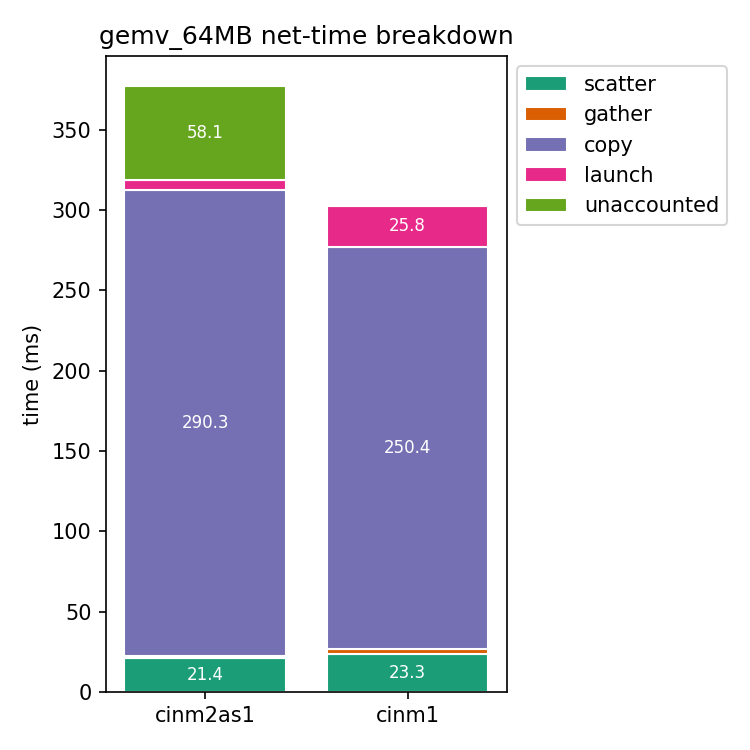
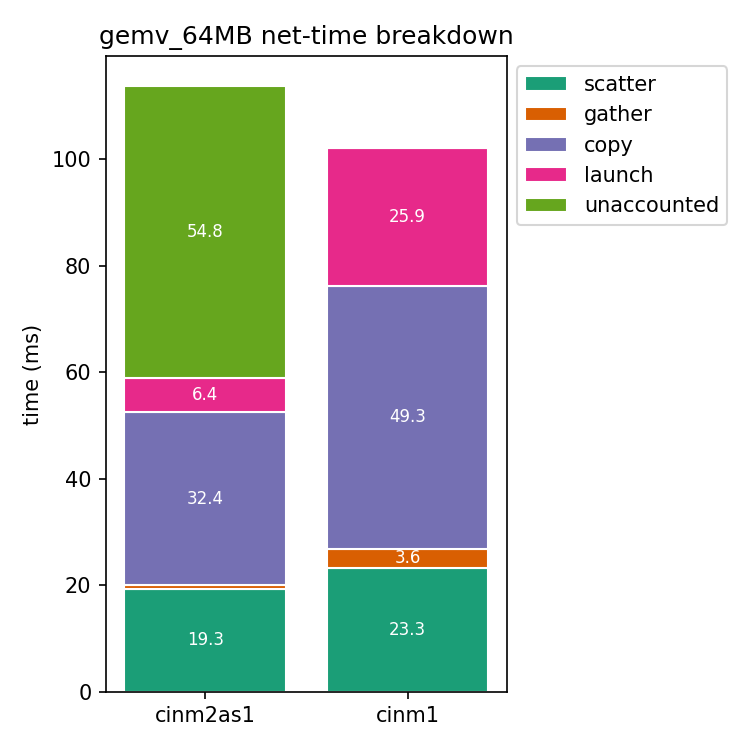
Optimize memref copy implementation

diff --git a/experiments/gemv_microbenchmark/dodo.py b/experiments/gemv_microbenchmark/dodo.py
@@ -1,0 +1,187 @@
+"""doit tasks for the gemv_64MB CINM 1.0 vs CINM 2.0 comparison: one compile
+task per config, one run task per config (each depending on its own
+compile), then a plot task depending on both runs.
+
+Config objects hold a `lower` Callable (the cinm-opt lowering pipeline),
+which can never be JSON-encoded, so they can't be passed between tasks via
+doit's getargs. Instead CONFIGS is just a module-level Python list that every
+task closure captures directly (no serialization needed -- it's all one
+process), and stages are connected by marker files on disk instead, matching
+cinm1comparison/dodo.py: `doit` then only reruns what's actually stale, e.g.
+rerunning after a plot tweak doesn't recompile or re-benchmark on hardware.
+
+Usage:
+  doit list         # show all tasks
+  doit              # compile + run + plot (default task)
+  doit compile      # just compile both configs
+  doit forget run   # force both hardware runs to redo next time
+"""
+
+from __future__ import annotations
+
+import pathlib
+import sys
+
+HERE = pathlib.Path(__file__).resolve().parent
+EXPERIMENTS_DIR = HERE.parent
+sys.path.insert(0, str(EXPERIMENTS_DIR))
+
+from doit.reporter import ProgressBarReporter  # noqa: E402
+from cinm_experiments import compile_run, cinm1, cinmopt, measurements  # noqa: E402
+
+DOIT_CONFIG = {"default_tasks": ["plot"], "reporter": ProgressBarReporter}
+
+COMPILE_ROOT = HERE / "data"
+RUN_ROOT = HERE / "run"
+ITERS = 10
+
+cinm2parms = {
+    "dpus": 256,
+    "tasklets": 4,
+    "wramRow": 1,
+    "wramCol": 1024,
+    "dpuCols": 1,
+    "mramRow": 4,
+    "mramCol": 1024,
+}
+
+CONFIGS = [
+    compile_run.Config(
+        system="cinm2as1",
+        fn_name="gemv_64MB",
+        label="foo",
+        params=cinm2parms,
+        fn_module="/home/clement.fournier/Work/cinm-mlir/experiments/cinm1comparison/data/prim_gemv/_split/gemv_64MB.mlir",
+        prim="gemv",
+        lower=cinmopt.eval_solution_lowerer(params=cinm2parms),
+    ),
+    compile_run.Config(
+        system="cinm1",
+        fn_name="gemv_64MB",
+        label="foo",
+        params={"dpus": 256, "tasklets": 4},
+        fn_module="/home/clement.fournier/Work/cinm-mlir/experiments/cinm1comparison/data/prim_gemv/_split/gemv_64MB.mlir",
+        prim="gemv",
+        lower=cinm1.lowerer(dpus=256, tasklets=4),
+    ),
+]
+
+
+def _config_dir(root: pathlib.Path, config: compile_run.Config) -> pathlib.Path:
+    return root / config.system / config.fn_name / config.label
+
+
+def _output_dir(config: compile_run.Config) -> pathlib.Path:
+    return _config_dir(RUN_ROOT, config) / "output"
+
+
+def _compile_one(config: compile_run.Config, marker: pathlib.Path) -> bool:
+    """Never raises: a config that fails to compile is recorded (printed,
+    marker left untouched) but must not stop doit from at least attempting
+    the sibling config -- a raised exception would abort the whole doit run,
+    not just this task."""
+    compiled = compile_run.compile_config(config, compile_root=COMPILE_ROOT)
+    if not compiled.ok:
+        print(f"  FAIL compile: {config.system}: {compiled.error}")
+        return False
+    marker.parent.mkdir(parents=True, exist_ok=True)
+    marker.touch()
+    return True
+
+
+def _run_one(config: compile_run.Config, marker: pathlib.Path) -> bool:
+    """Never raises, mirrors _compile_one. A hardware run failure is printed
+    but the marker is still touched, so a flaky run isn't silently retried
+    on every `doit` invocation -- rerun it explicitly with `doit forget
+    run:<system> && doit run:<system>`."""
+    compiled = compile_run.discover_compiled([config], compile_root=COMPILE_ROOT)[0]
+    result = compile_run.run_config(compiled, run_root=RUN_ROOT, iters=ITERS)
+    if not result.ok and compile_run.is_dpu_allocation_error(result.error):
+        result = compile_run.run_config(compiled, run_root=RUN_ROOT, iters=ITERS)
+    if not result.ok:
+        print(f"  FAIL run: {config.system}: {result.error[:200]}")
+    marker.parent.mkdir(parents=True, exist_ok=True)
+    marker.touch()
+    return True
+
+
+def task_compile():
+    """Compile each config to a upmem binary."""
+    for config in CONFIGS:
+        marker = _config_dir(COMPILE_ROOT, config) / "compile.done"
+        yield {
+            "name": config.system,
+            "file_dep": [config.fn_module],
+            "targets": [str(marker)],
+            "actions": [(_compile_one, [config, marker])],
+        }
+
+
+def task_bench():
+    """Benchmark each compiled config on hardware. doit runs same-priority
+    tasks in the order they're yielded, so with CONFIGS' fixed order this
+    stays sequential across configs -- concurrent hardware runs would
+    contend for host/DPU resources and skew wall-clock timing."""
+    for config in CONFIGS:
+        compile_marker = _config_dir(COMPILE_ROOT, config) / "compile.done"
+        run_marker = _config_dir(RUN_ROOT, config) / "run.done"
+        yield {
+            "name": config.system,
+            "file_dep": [str(compile_marker)],
+            "targets": [str(run_marker)],
+            "actions": [(_run_one, [config, run_marker])],
+        }
+
+
+def task_plot():
+    """Print + plot the net-time breakdown (scatter/gather/copy/launch/
+    unaccounted) for both systems."""
+
+    def action():
+        breakdowns = {}
+        for config in CONFIGS:
+            output_dir = _output_dir(config)
+            net_ms = measurements.net_time_ms(output_dir)
+            if net_ms is None:
+                print(f"{config.system}: no results (run failed?)")
+                continue
+            breakdown = measurements.net_breakdown_ms(output_dir)
+            breakdowns[config.system] = breakdown
+            parts = "  ".join(f"{k}={v:.3f}ms" for k, v in breakdown.items())
+            print(f"{config.system}: net_time={net_ms:.3f}ms  {parts}")
+
+        if not breakdowns:
+            return
+
+        import matplotlib.pyplot as plt
+
+        systems = list(breakdowns.keys())
+        categories = measurements.NET_BREAKDOWN_CATEGORIES
+        colors = [plt.get_cmap("Dark2")(i) for i in range(len(categories))]
+
+        fig, ax = plt.subplots(figsize=(5, 5))
+        bottoms = [0.0] * len(systems)
+        for cat, color in zip(categories, colors):
+            values = [breakdowns[s][cat] for s in systems]
+            totals = [sum(breakdowns[s].values()) for s in systems]
+            bars = ax.bar(systems, values, bottom=bottoms, label=cat, color=color,
+                           edgecolor="white", linewidth=1)
+            for bar, v, total in zip(bars, values, totals):
+                if v > 0.03 * total:  # skip labeling slivers -- they'd just overlap
+                    ax.text(bar.get_x() + bar.get_width() / 2, bar.get_y() + v / 2,
+                            f"{v:.1f}", ha="center", va="center", fontsize=8, color="white")
+            bottoms = [b + v for b, v in zip(bottoms, values)]
+
+        ax.set_ylabel("time (ms)")
+        ax.set_title("gemv_64MB net-time breakdown")
+        ax.legend(loc="upper left", bbox_to_anchor=(1.0, 1.0))
+        fig.tight_layout()
+        out_path = HERE / "breakdown.png"
+        fig.savefig(out_path, dpi=150)
+        print(f"wrote {out_path}")
+
+    return {
+        "file_dep": [str(_config_dir(RUN_ROOT, c) / "run.done") for c in CONFIGS],
+        "targets": [str(HERE / "breakdown.png")],
+        "actions": [action],
+    }

diff --git a/runtime/Upmem/memref_rt.cpp b/runtime/Upmem/memref_rt.cpp
@@ -32,20 +32,37 @@ extern "C" void memrefCopy(int64_t elemSize, UnrankedMemRefType<char> *srcArg,
   char *srcPtr = src.data + src.offset * elemSize;
   char *dstPtr = dst.data + dst.offset * elemSize;
 
-  if (rank == 0) {
-    memcpy(dstPtr, srcPtr, elemSize);
+  // Merge the maximal run of innermost axes that are contiguous in both src
+  // and dst into a single bulk memcpy, instead of copying elemSize bytes at
+  // a time: e.g. for a [256, 1, 4, 1024] tile whose innermost axis is
+  // contiguous in both operands, this does 1024 memcpy(4KB) calls instead of
+  // 1048576 memcpy(4B) calls.
+  int64_t chunkElems = 1;
+  int64_t chunkAxis = rank; // first axis NOT absorbed into the chunk
+  while (chunkAxis > 0 && src.strides[chunkAxis - 1] == chunkElems &&
+         dst.strides[chunkAxis - 1] == chunkElems) {
+    chunkElems *= src.sizes[chunkAxis - 1];
+    --chunkAxis;
+  }
+  int64_t chunkBytes = chunkElems * elemSize;
+
+  if (chunkAxis == 0) {
+    // The whole operand is one contiguous run (this also covers rank == 0,
+    // where the loop above never executes and chunkElems stays 1).
+    memcpy(dstPtr, srcPtr, chunkBytes);
 #ifdef UPMEM_RT_STATS
-    upmemrt_record_copy(upmemrt_now_ns() - t0, elemSize);
+    upmemrt_record_copy(upmemrt_now_ns() - t0, numElements * elemSize);
 #endif
     return;
   }
 
-  int64_t *indices = static_cast<int64_t *>(alloca(sizeof(int64_t) * rank));
-  int64_t *srcStrides = static_cast<int64_t *>(alloca(sizeof(int64_t) * rank));
-  int64_t *dstStrides = static_cast<int64_t *>(alloca(sizeof(int64_t) * rank));
+  int64_t *indices = static_cast<int64_t *>(alloca(sizeof(int64_t) * chunkAxis));
+  int64_t *srcStrides = static_cast<int64_t *>(alloca(sizeof(int64_t) * chunkAxis));
+  int64_t *dstStrides = static_cast<int64_t *>(alloca(sizeof(int64_t) * chunkAxis));
 
-  // Initialize index and scale strides.
-  for (int rankp = 0; rankp < rank; ++rankp) {
+  // Initialize index and scale strides for the remaining (non-contiguous)
+  // outer axes.
+  for (int64_t rankp = 0; rankp < chunkAxis; ++rankp) {
     indices[rankp] = 0;
     srcStrides[rankp] = src.strides[rankp] * elemSize;
     dstStrides[rankp] = dst.strides[rankp] * elemSize;
@@ -53,10 +70,10 @@ extern "C" void memrefCopy(int64_t elemSize, UnrankedMemRefType<char> *srcArg,
 
   int64_t readIndex = 0, writeIndex = 0;
   for (;;) {
-    // Copy over the element, byte by byte.
-    memcpy(dstPtr + writeIndex, srcPtr + readIndex, elemSize);
-    // Advance index and read position.
-    for (int64_t axis = rank - 1; axis >= 0; --axis) {
+    // Copy the largest contiguous chunk at the current position.
+    memcpy(dstPtr + writeIndex, srcPtr + readIndex, chunkBytes);
+    // Advance index and read position over the remaining outer axes.
+    for (int64_t axis = chunkAxis - 1; axis >= 0; --axis) {
       // Advance at current axis.
       auto newIndex = ++indices[axis];
       readIndex += srcStrides[axis];

diff --git a/experiments/gemv_microbenchmark/experiment.py b/experiments/gemv_microbenchmark/experiment.py
@@ -121,4 +121,3 @@ if breakdowns:
     out_path = HERE / "breakdown.png"
     fig.savefig(out_path, dpi=150)
     print(f"wrote {out_path}")
-
